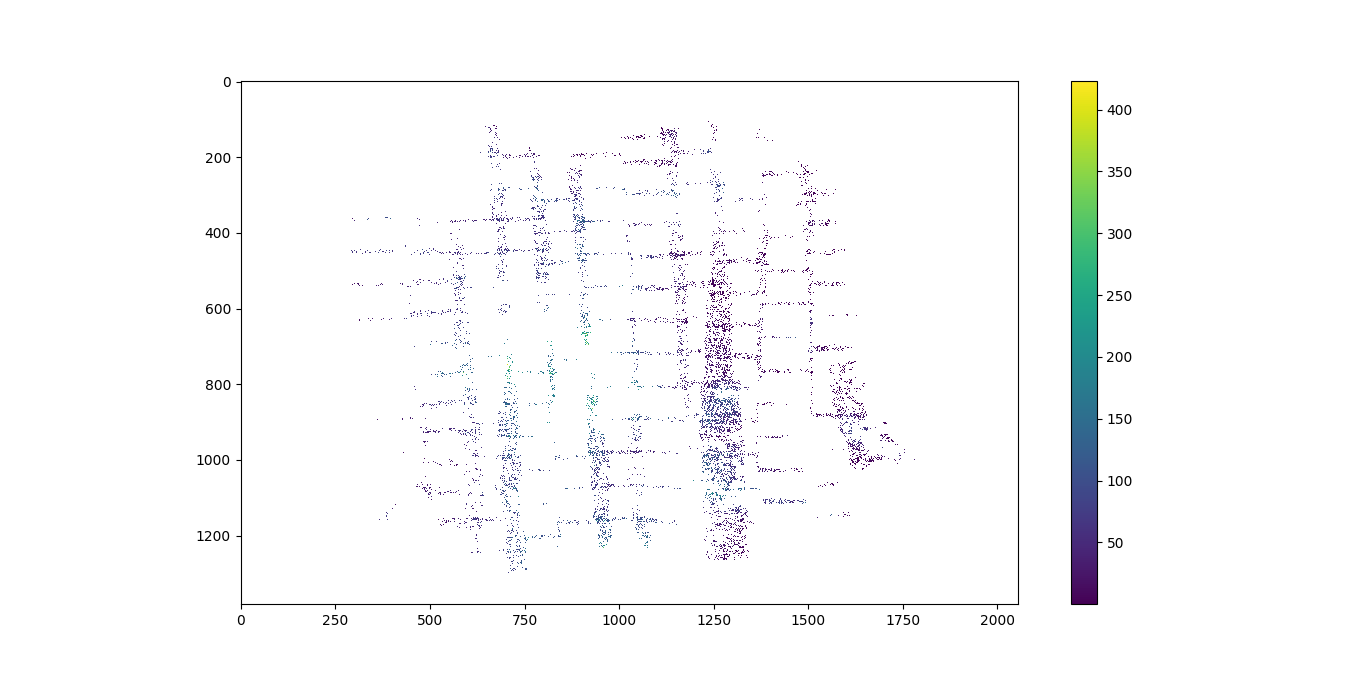
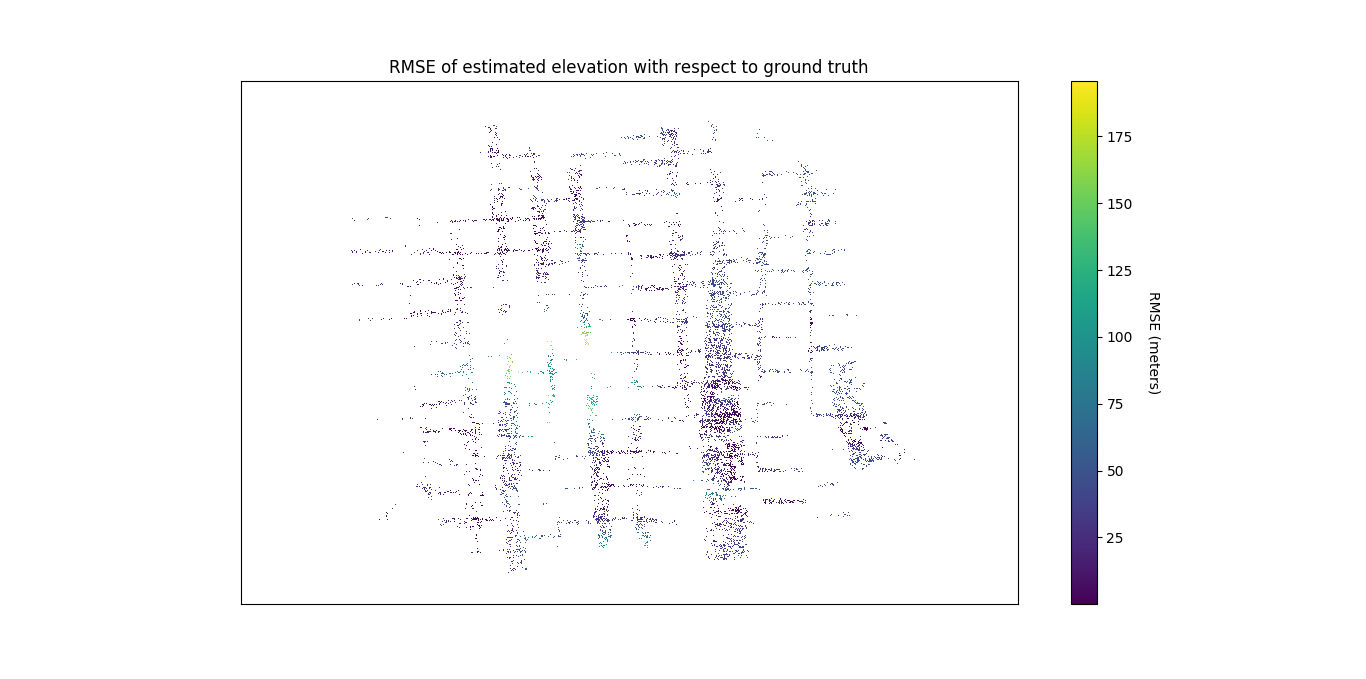
Add units and title to RMSE map.

diff --git a/scripts/evaluate_reconstruction.py b/scripts/evaluate_reconstruction.py
@@ -199,14 +199,18 @@ def show_RMSE(estimated_elevations, ground_truth_elevations, ground_truth_indice
     binned_rmse[ground_truth_indices] = absolute_elevation_difference
     binned_rmse = np.sqrt(binned_rmse ** 2)
     plt.imshow(binned_rmse)
-    plt.colorbar()
+    plt.title('RMSE of estimated elevation with respect to ground truth')
+    colorbar = plt.colorbar()
+    colorbar.set_label('RMSE (meters)', rotation = 270, labelpad = 20)
+    plt.axes().get_xaxis().set_visible(False)
+    plt.axes().get_yaxis().set_visible(False)
     plt.show()
 
     # Compute the total RMSE over the entire map.
     total_rmse = np.sqrt(np.sum(absolute_elevation_difference ** 2) / estimated_elevations.shape[0])
-    print 'Total RMSE: ', total_rmse
+    print '    Total RMSE: ', total_rmse
 
-    print 'Esimates variance: ', np.var(estimated_elevations)
+    print '    Estimates variance: ', np.var(estimated_elevations)
 
 def main():
     parser = argparse.ArgumentParser(
